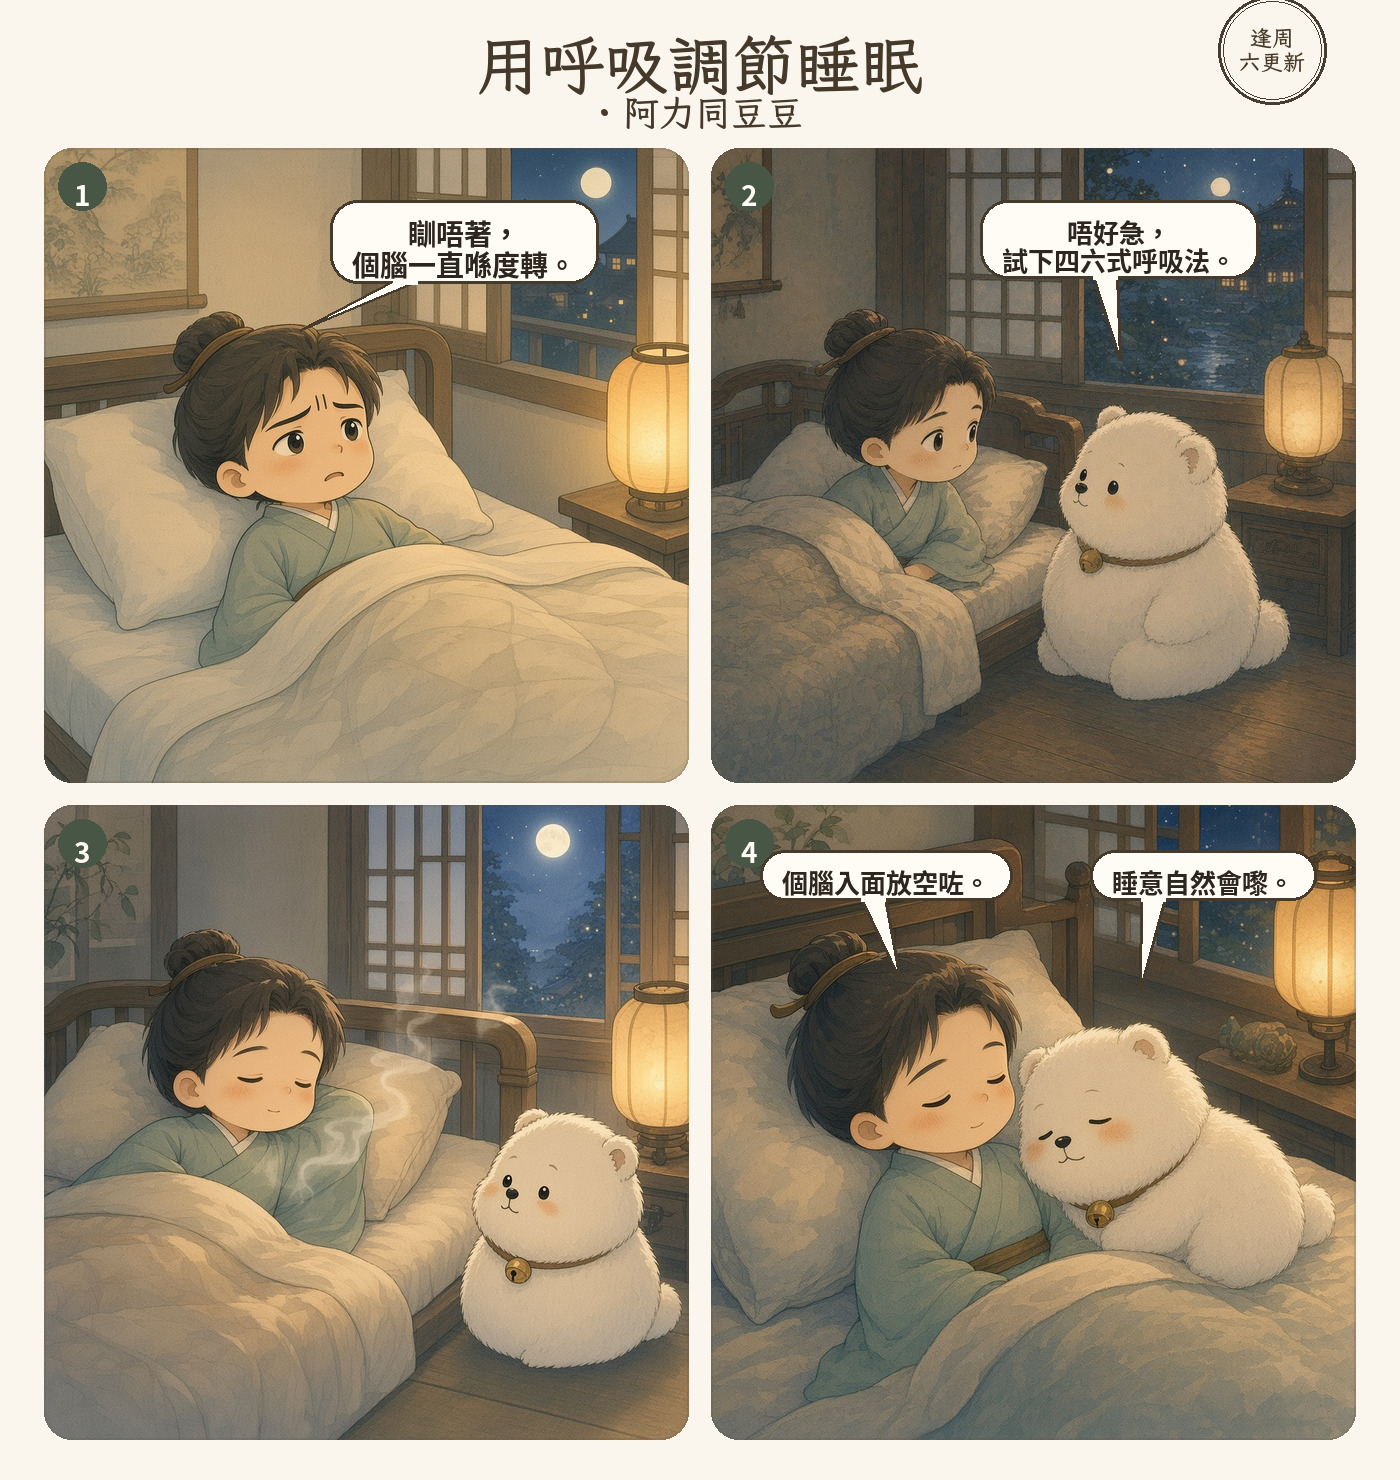
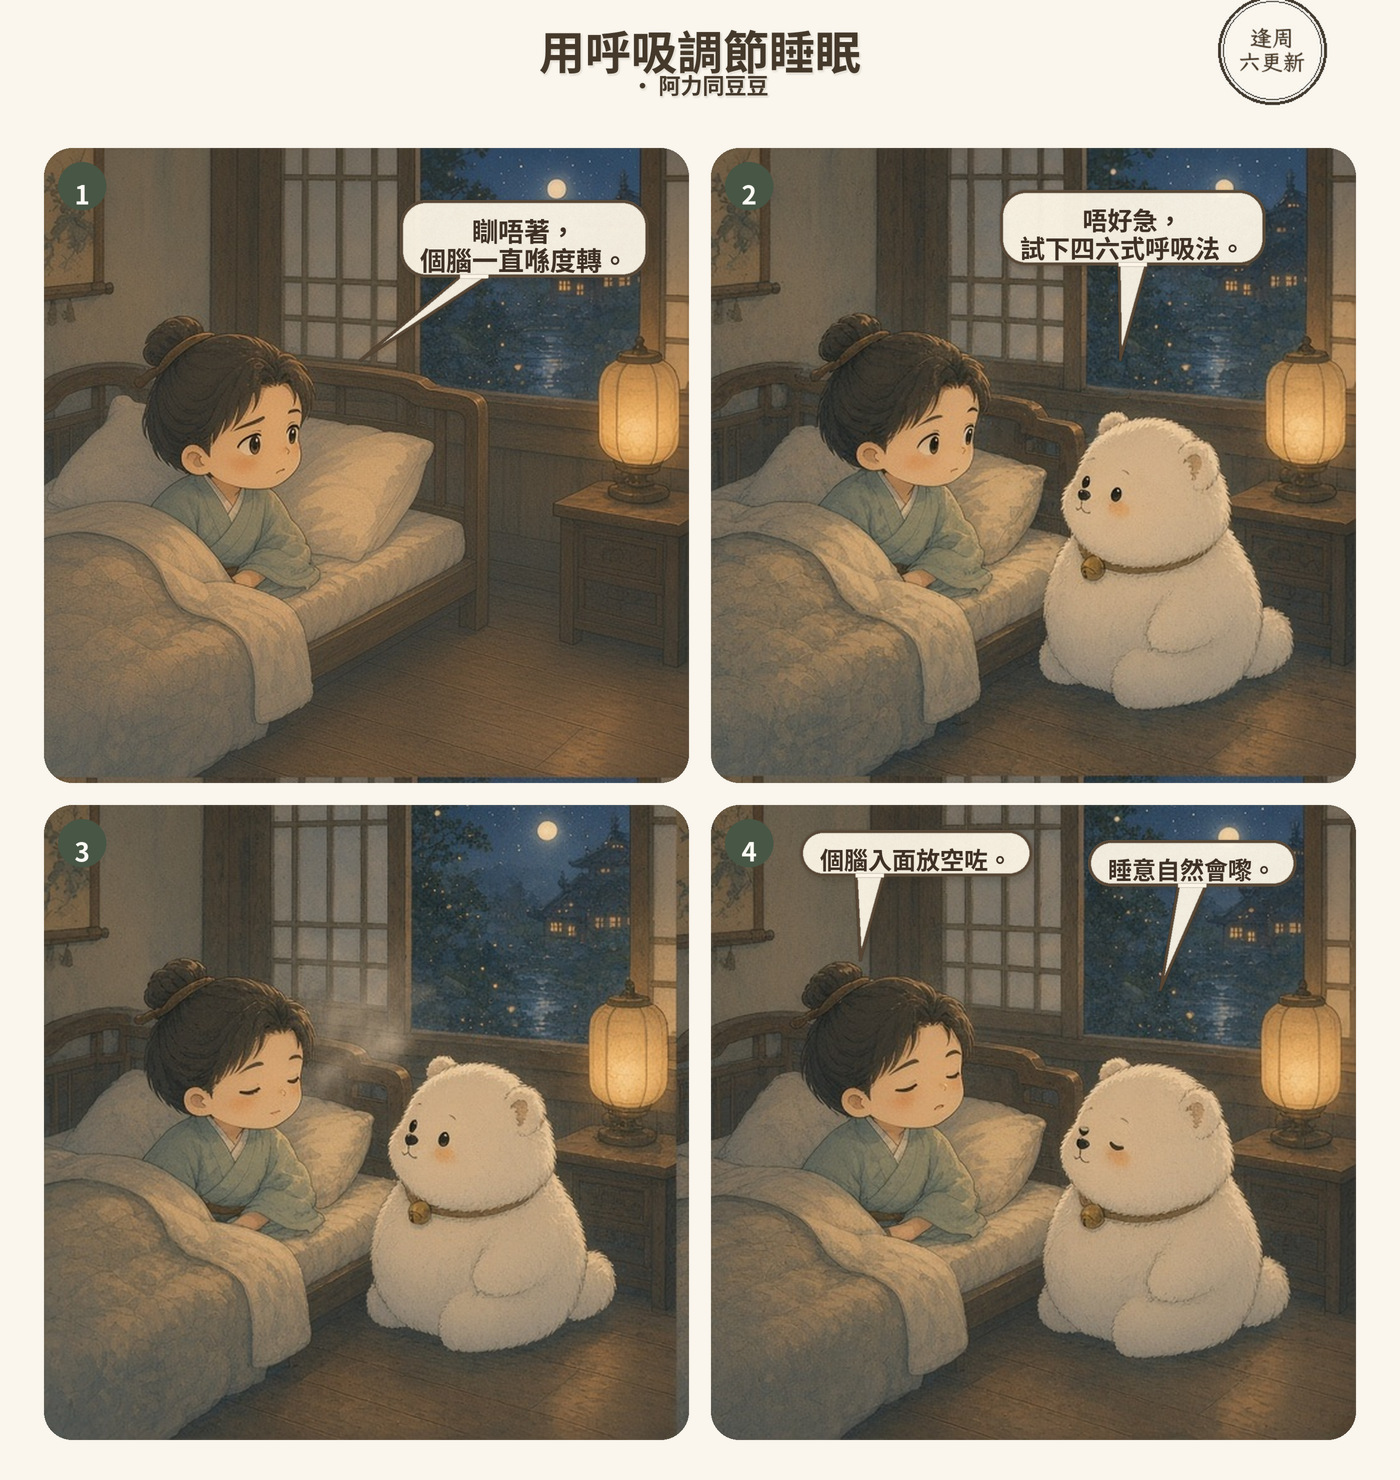
draft: 四格對齊同一睡房鏡頭，並執過對白氣泡
床、窗、燈位置四格一致；題目同氣泡改得較貼畫面，減少後貼感。等確認先合併。

diff --git a/src/lib/comics.ts b/src/lib/comics.ts
@@ -44,7 +44,7 @@ export const COMICS: readonly ComicEntry[] = [
   {
     id: "breath-for-sleep",
     theme: "anmei",
-    image: "/comics/breath-for-sleep.jpg?v=1",
+    image: "/comics/breath-for-sleep.jpg?v=2",
     published: "2026-11-14",
     title: {
       yue: "用呼吸調節睡眠 · 阿力同豆豆",
